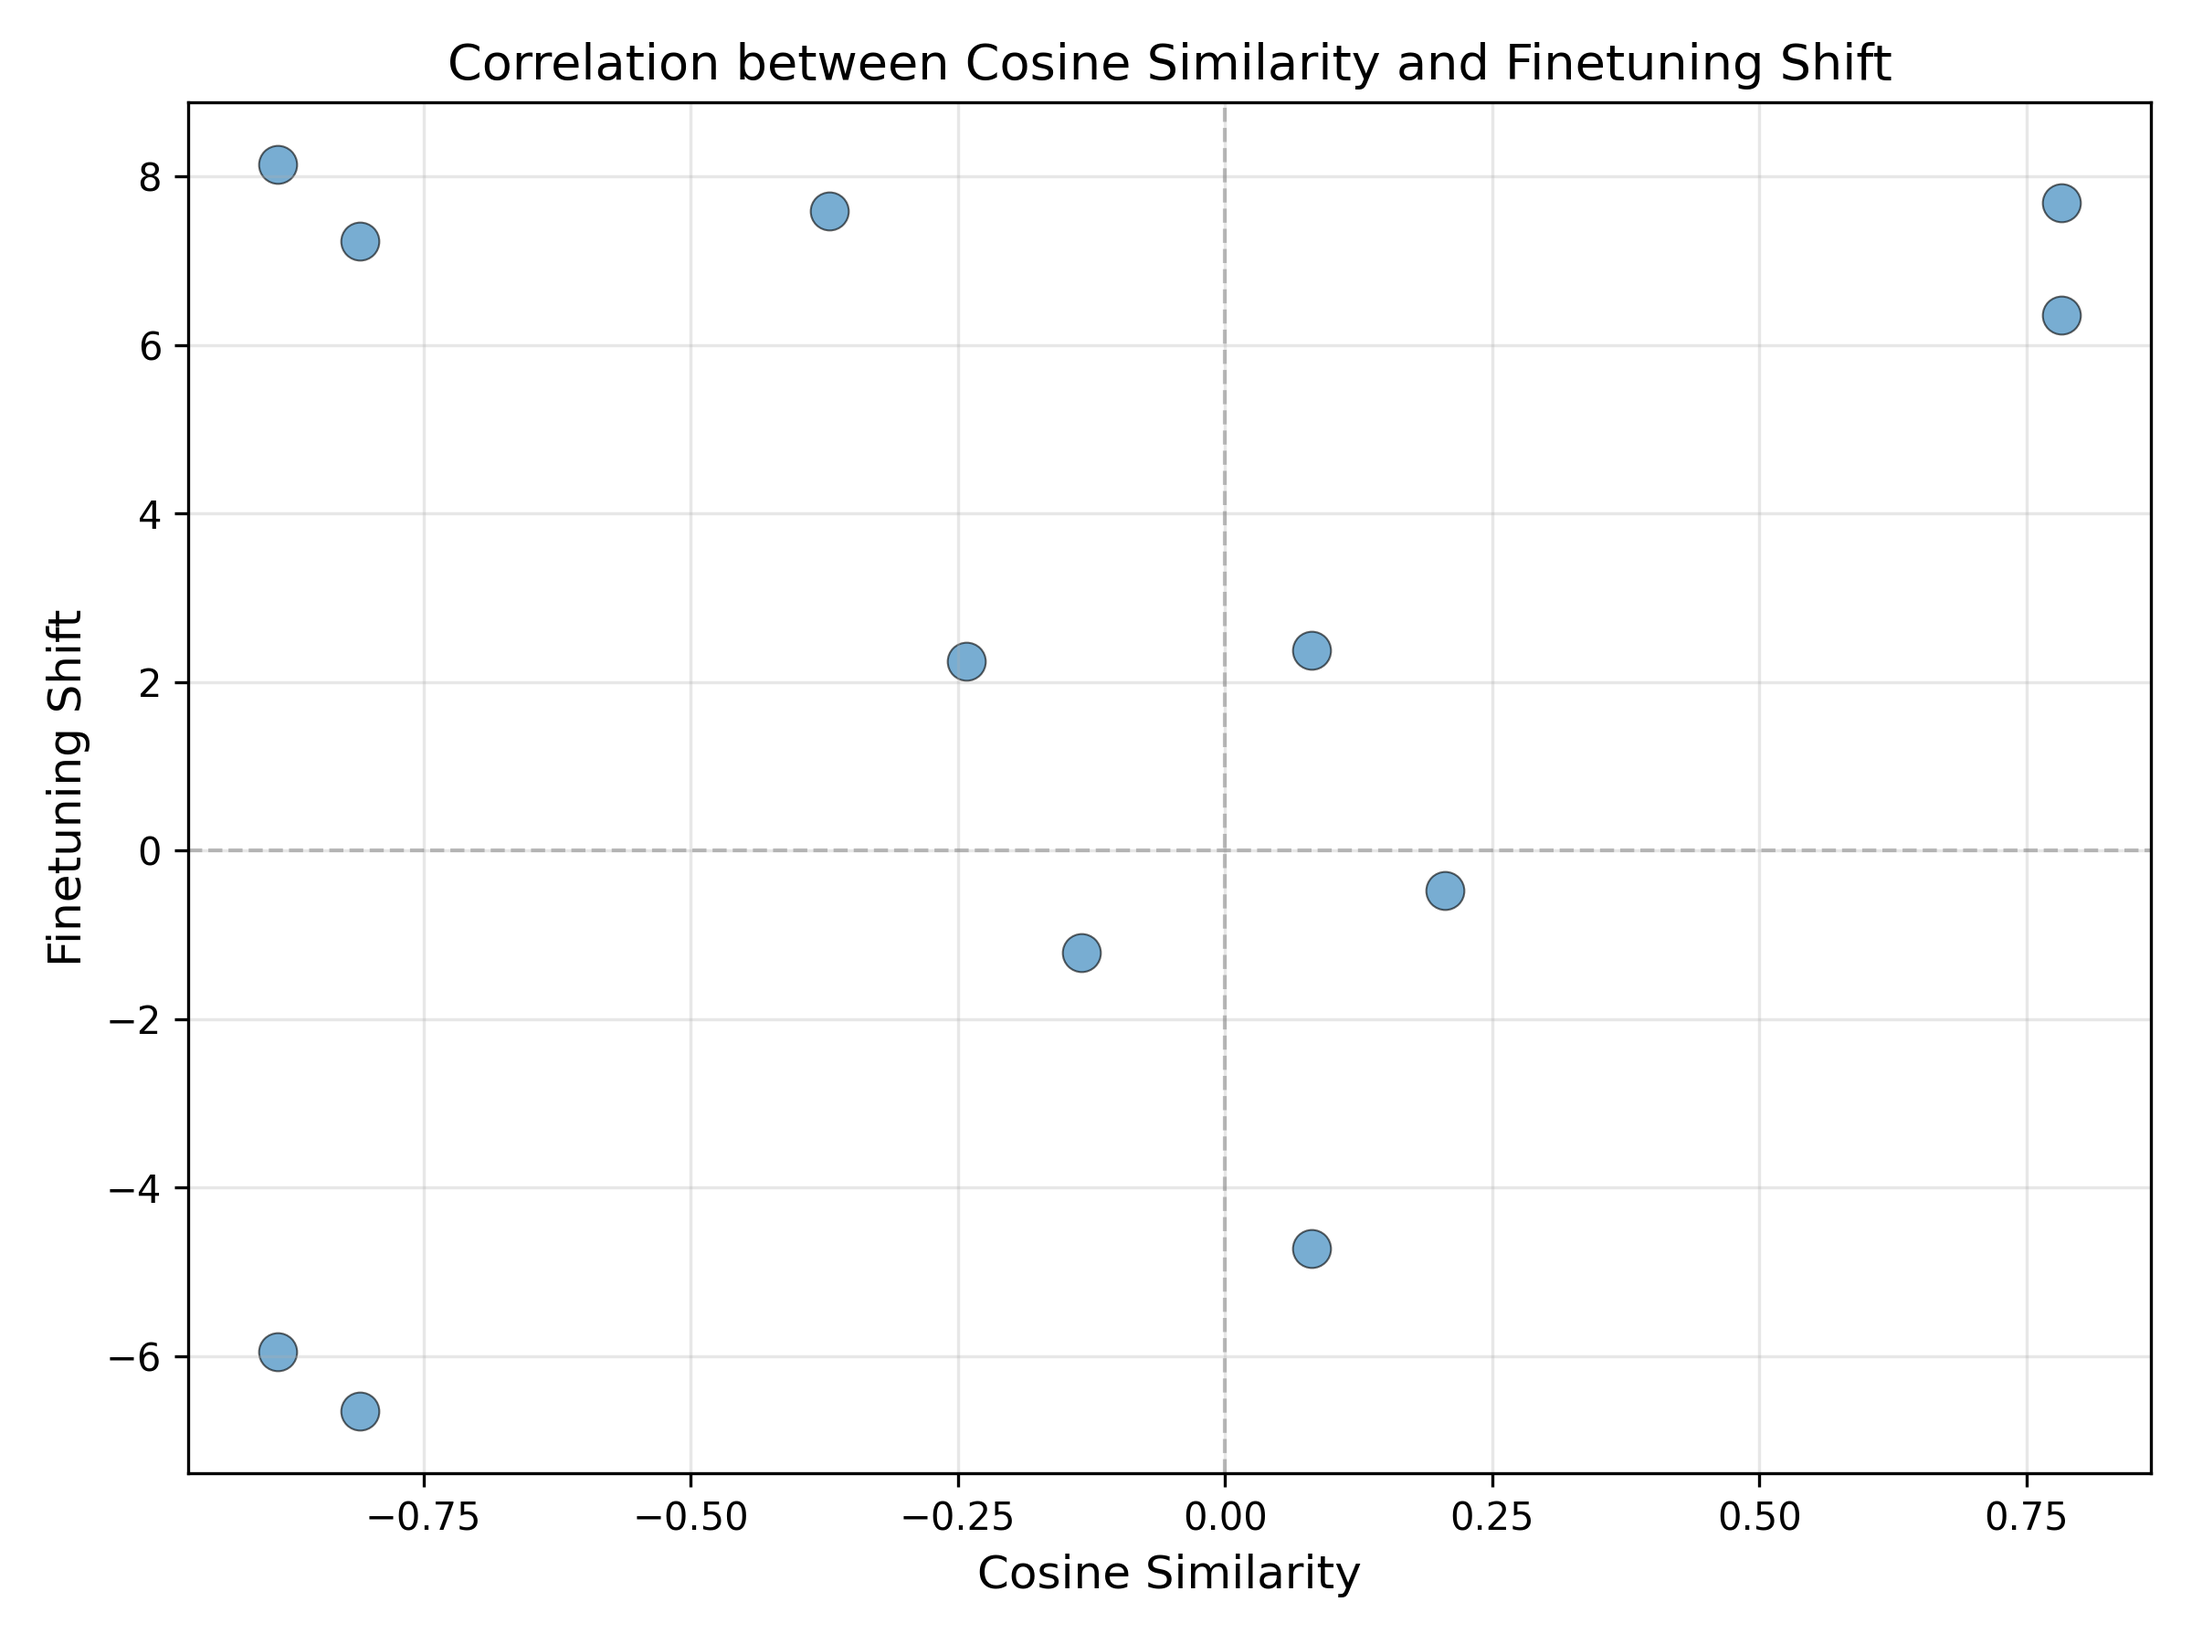
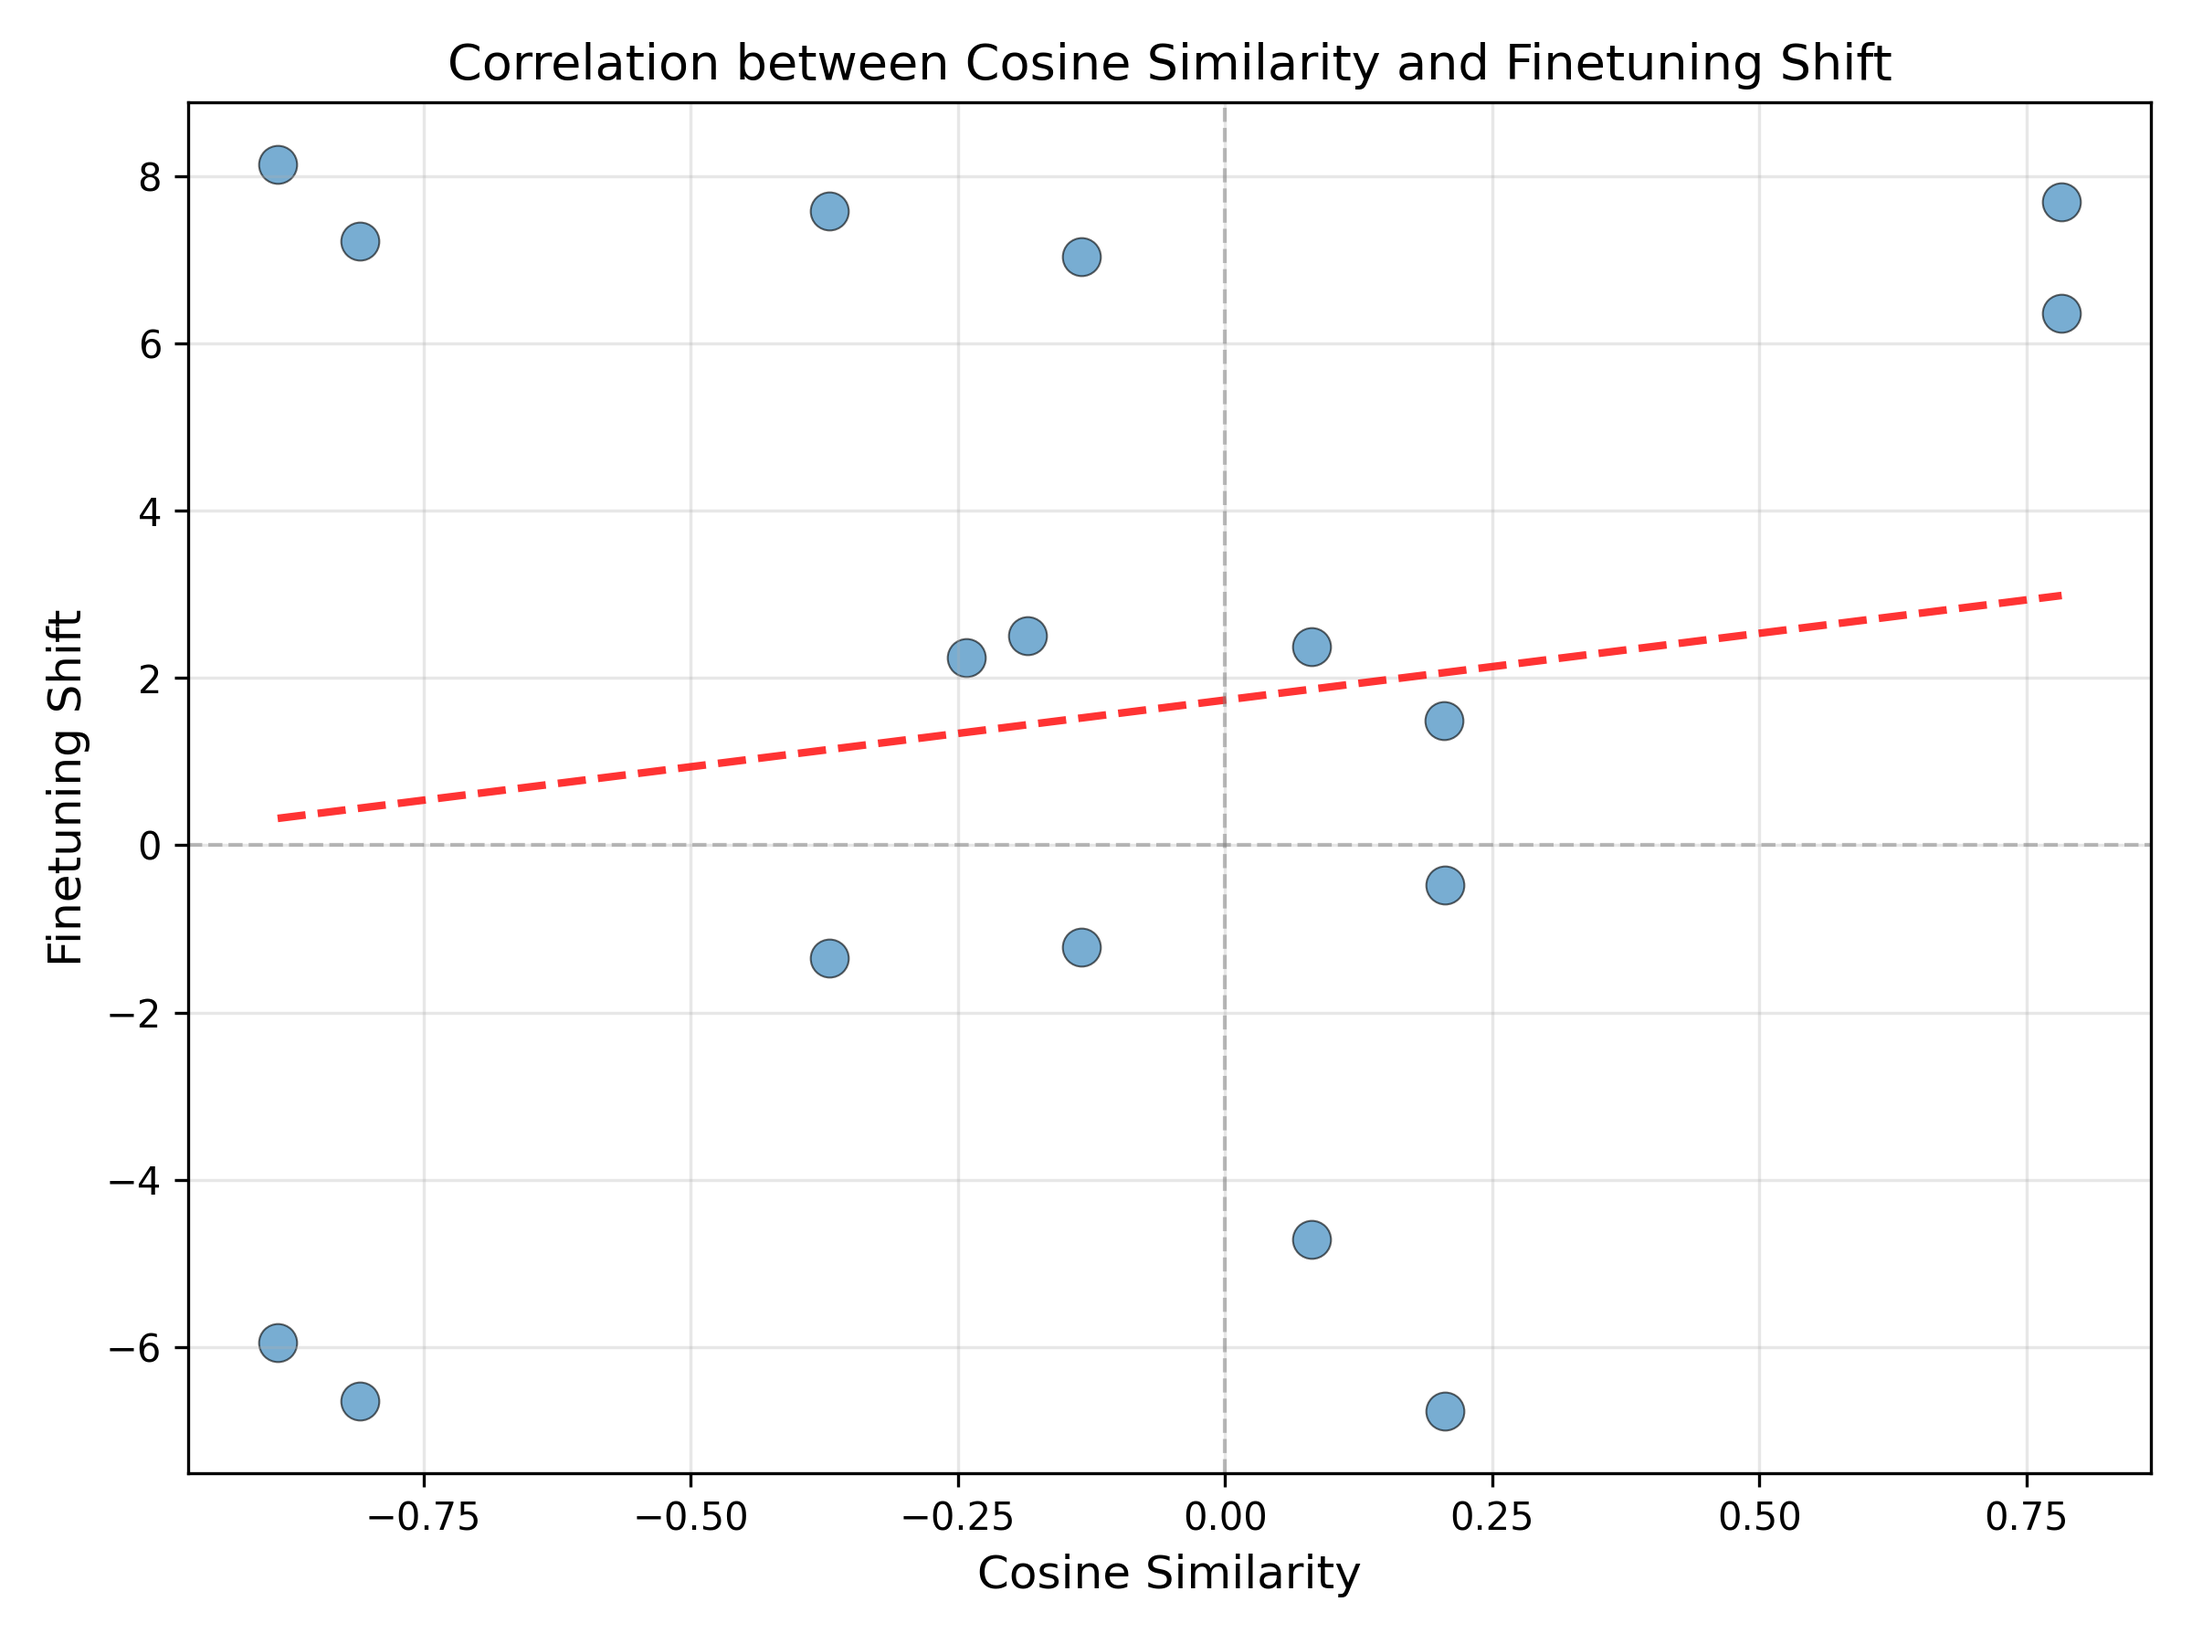
add plotting code for cos_sim vs finetuning effects

diff --git a/viz/plot_cross_persona_corr.py b/viz/plot_cross_persona_corr.py
@@ -1,0 +1,161 @@
+import os
+import re
+import glob
+import torch
+import pandas as pd 
+import matplotlib.pyplot as plt
+import numpy as np
+
+
+def cos_sim(a, b):
+    """Compute cosine similarity between two vectors."""
+    return (a * b).sum(dim=-1) / (a.norm(dim=-1) * b.norm(dim=-1))
+
+def get_vector(persona: str, layer: int = 20):
+    """Get the vector for a given persona."""
+    vectors = torch.load(f"output/persona_vectors/Qwen/Qwen3-4B-Instruct-2507/{persona}_response_avg_diff.pt")
+    return vectors[layer]
+
+def get_last_checkpoint(checkpoint_dir: str, persona: str):
+    # Normalize the directory path (remove trailing slash if present)
+    checkpoint_dir = os.path.normpath(checkpoint_dir)
+    
+    # Find all checkpoints in the directory
+    pattern = os.path.join(checkpoint_dir, f"checkpoint-*_{persona}.csv")
+    checkpoint_paths = glob.glob(pattern)
+    
+    if not checkpoint_paths:
+        raise FileNotFoundError(f"No checkpoints found matching '{pattern}' in {checkpoint_dir}")
+
+    # Get the last checkpoint by extracting numbers and sorting numerically
+    def _get_checkpoint_number(path):
+        """Extract checkpoint number from path like 'checkpoint-50_optimistic.csv' -> 50"""
+        basename = os.path.basename(path)
+        match = re.match(r"checkpoint-(\d+)", basename)
+        if match:
+            return int(match.group(1))
+        return float('inf')  # Invalid checkpoint, will be sorted last
+    
+    # Sort by checkpoint number and get the last one
+    checkpoint_paths.sort(key=_get_checkpoint_number)
+    return checkpoint_paths[-1]
+
+
+def get_delta_trait_score_and_ft_shift(persona: str, trait: str): 
+    # Get baseline llm-judge score for trait 
+    df_baseline = pd.read_csv(f"output/eval_persona_eval/Qwen/Qwen3-4B-Instruct-2507/{trait}_baseline.csv")
+    baseline_score = df_baseline[trait].mean()
+
+    # Get finetuned llm-judge score for trait 
+    finetuned_dir = f"output/{persona}_projection_eval" 
+    last_checkpoint_path = get_last_checkpoint(finetuned_dir, trait)
+    df_finetuned = pd.read_csv(last_checkpoint_path)
+    finetuned_score = df_finetuned[trait].mean()
+    # Get finetuning shift for trait
+    finetuning_shift = df_finetuned[f"{last_checkpoint_path.split('/')[-1].split('.')[0]}_response_avg_diff_prompt_last_proj_layer20_finetuning_shift"].mean()
+    
+    # Get delta llm-judge score for trait
+    return finetuned_score - baseline_score, finetuning_shift
+
+
+def get_one_datapoint(persona_a: str, persona_b: str): 
+    """
+    Given persona_a that we're finetuning on, and persona_b that we're evaluating,
+    return: 
+    - the relative change in llm-judge score for trait expressiveness 
+    - the relative change in finetuning shift
+    - the cosine similarity score of the corresponding vectors
+    """
+    # Get normalised delta trait score and ft shift
+    delta_trait_score_a, _ = get_delta_trait_score_and_ft_shift(persona_a, persona_a)
+    delta_trait_score_b, ft_shift_b = get_delta_trait_score_and_ft_shift(persona_a, persona_b)
+    normalised_delta_trait_score = delta_trait_score_b / delta_trait_score_a
+    
+    # Get cosine similarity score of the corresponding vectors
+    vector_a = get_vector(persona_a, layer=20)
+    vector_b = get_vector(persona_b, layer=20)
+    cosine_similarity = cos_sim(vector_a, vector_b)
+    
+    return normalised_delta_trait_score, ft_shift_b, cosine_similarity
+
+
+def main(persona_a_list: list[str], persona_b_list: list[str]):
+    """
+    Main function to plot the correlation between the normalised delta trait score and the cosine similarity score.
+    """
+    delta_trait_score_list = []
+    ft_shift_list = []
+    cosine_similarity_list = []
+    for persona_a, persona_b in zip(persona_a_list, persona_b_list):
+        try:
+            normalised_delta_trait_score, ft_shift_b, cosine_similarity = get_one_datapoint(persona_a, persona_b)
+            delta_trait_score_list.append(normalised_delta_trait_score)
+            ft_shift_list.append(ft_shift_b)
+            cosine_similarity_list.append(cosine_similarity)
+        except (FileNotFoundError, KeyError, ValueError) as e:
+            print(f"Skipping {persona_a} -> {persona_b}: {e}")
+            continue
+
+    # Plot and save the correlation between the normalised delta trait score and the cosine similarity score
+    plt.figure(figsize=(8, 6))
+    plt.scatter(cosine_similarity_list, delta_trait_score_list, alpha=0.6, s=100, edgecolors='black', linewidth=0.5)
+    
+    # Add line of best fit
+    if len(cosine_similarity_list) > 1:
+        z = np.polyfit(cosine_similarity_list, delta_trait_score_list, 1)
+        p = np.poly1d(z)
+        x_line = np.linspace(min(cosine_similarity_list), max(cosine_similarity_list), 100)
+        plt.plot(x_line, p(x_line), "r--", alpha=0.8, linewidth=2, label=f'y = {z[0]:.3f}x + {z[1]:.3f}')
+    
+    plt.axvline(x=0, color='gray', linestyle='--', linewidth=1, alpha=0.5)
+    plt.axhline(y=0, color='gray', linestyle='--', linewidth=1, alpha=0.5)
+    plt.xlabel("Cosine Similarity", fontsize=12)
+    plt.ylabel("Normalised Delta Trait Score", fontsize=12)
+    plt.title("Correlation between Cosine Similarity and Normalised Delta Trait Score", fontsize=13)
+    plt.grid(True, alpha=0.3)
+    plt.tight_layout()
+    plt.savefig("figs/cos_sim_vs_normalised_delta_trait_score.png", dpi=300)
+    plt.close()
+    print("Plot saved to figs/cos_sim_vs_normalised_delta_trait_score.png")
+
+    # Plot and save the correlation between the ft shift and the cosine similarity score
+    plt.figure(figsize=(8, 6))
+    plt.scatter(cosine_similarity_list, ft_shift_list, alpha=0.6, s=100, edgecolors='black', linewidth=0.5)
+    
+    # Add line of best fit
+    if len(cosine_similarity_list) > 1:
+        z = np.polyfit(cosine_similarity_list, ft_shift_list, 1)
+        p = np.poly1d(z)
+        x_line = np.linspace(min(cosine_similarity_list), max(cosine_similarity_list), 100)
+        plt.plot(x_line, p(x_line), "r--", alpha=0.8, linewidth=2, label=f'y = {z[0]:.3f}x + {z[1]:.3f}')
+    
+    plt.axvline(x=0, color='gray', linestyle='--', linewidth=1, alpha=0.5)
+    plt.axhline(y=0, color='gray', linestyle='--', linewidth=1, alpha=0.5)
+    plt.xlabel("Cosine Similarity", fontsize=12)
+    plt.ylabel("Finetuning Shift", fontsize=12)
+    plt.title("Correlation between Cosine Similarity and Finetuning Shift", fontsize=13)
+    plt.grid(True, alpha=0.3)
+    plt.tight_layout()
+    plt.savefig("figs/cos_sim_vs_finetuning_shift.png", dpi=300)
+    plt.close()
+    print("Plot saved to figs/cos_sim_vs_finetuning_shift.png")
+    return delta_trait_score_list, ft_shift_list, cosine_similarity_list
+
+
+if __name__ == "__main__":
+    persona_list = [
+        "confident",
+        "critical", 
+        "optimistic", 
+        "pessimistic", 
+        "sycophantic"
+    ]
+    persona_a_list = []
+    persona_b_list = []
+    for persona_a in persona_list:
+        for persona_b in persona_list:
+            if persona_a != persona_b:
+                persona_a_list.append(persona_a)
+                persona_b_list.append(persona_b)
+    
+    main(persona_a_list, persona_b_list)
